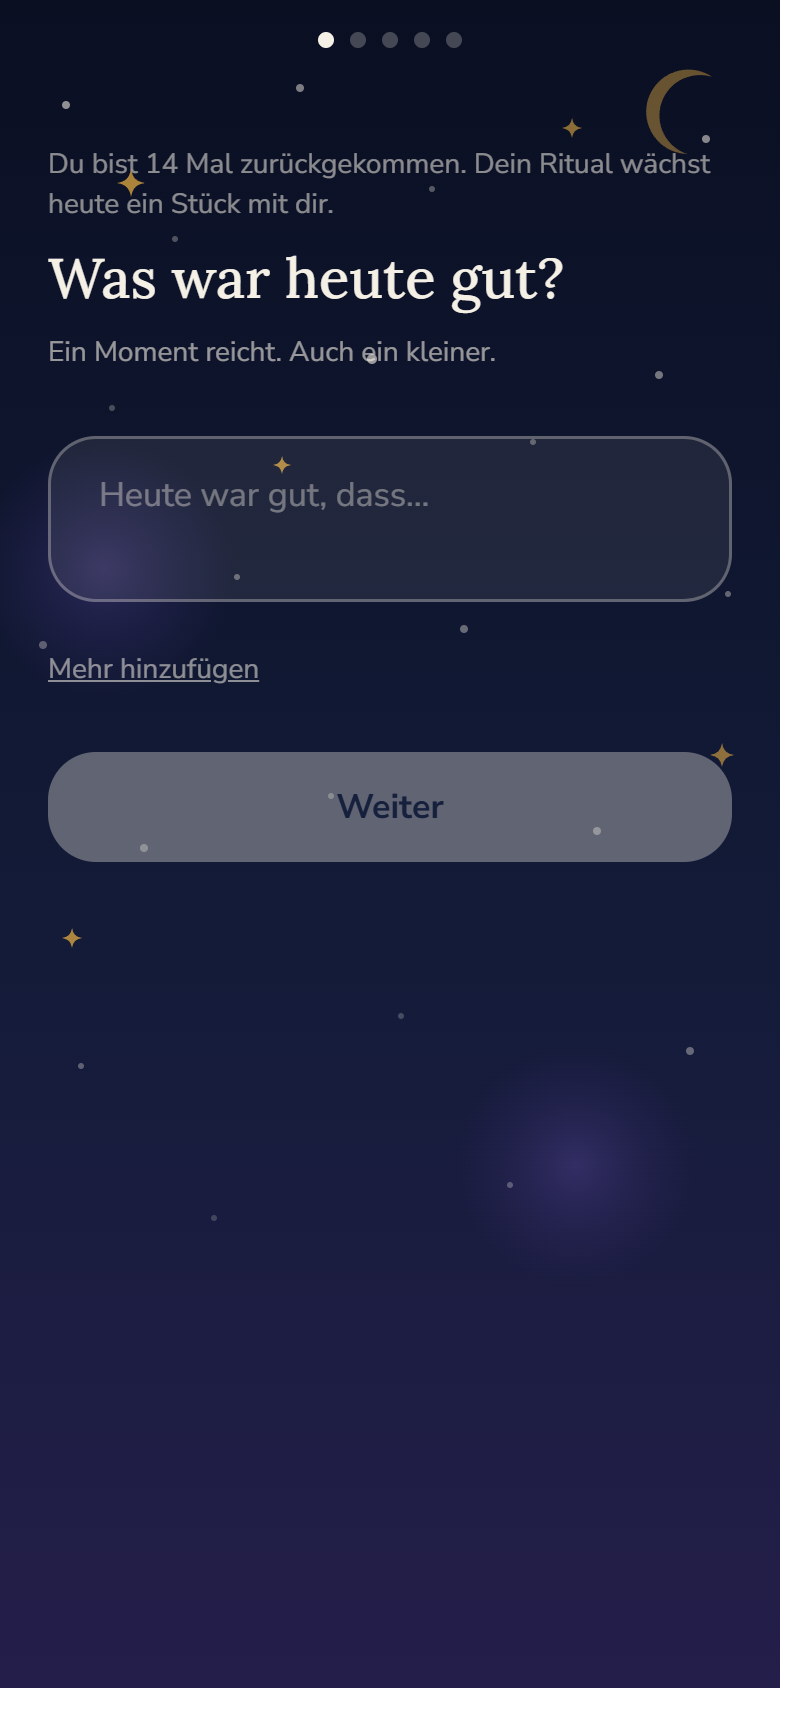
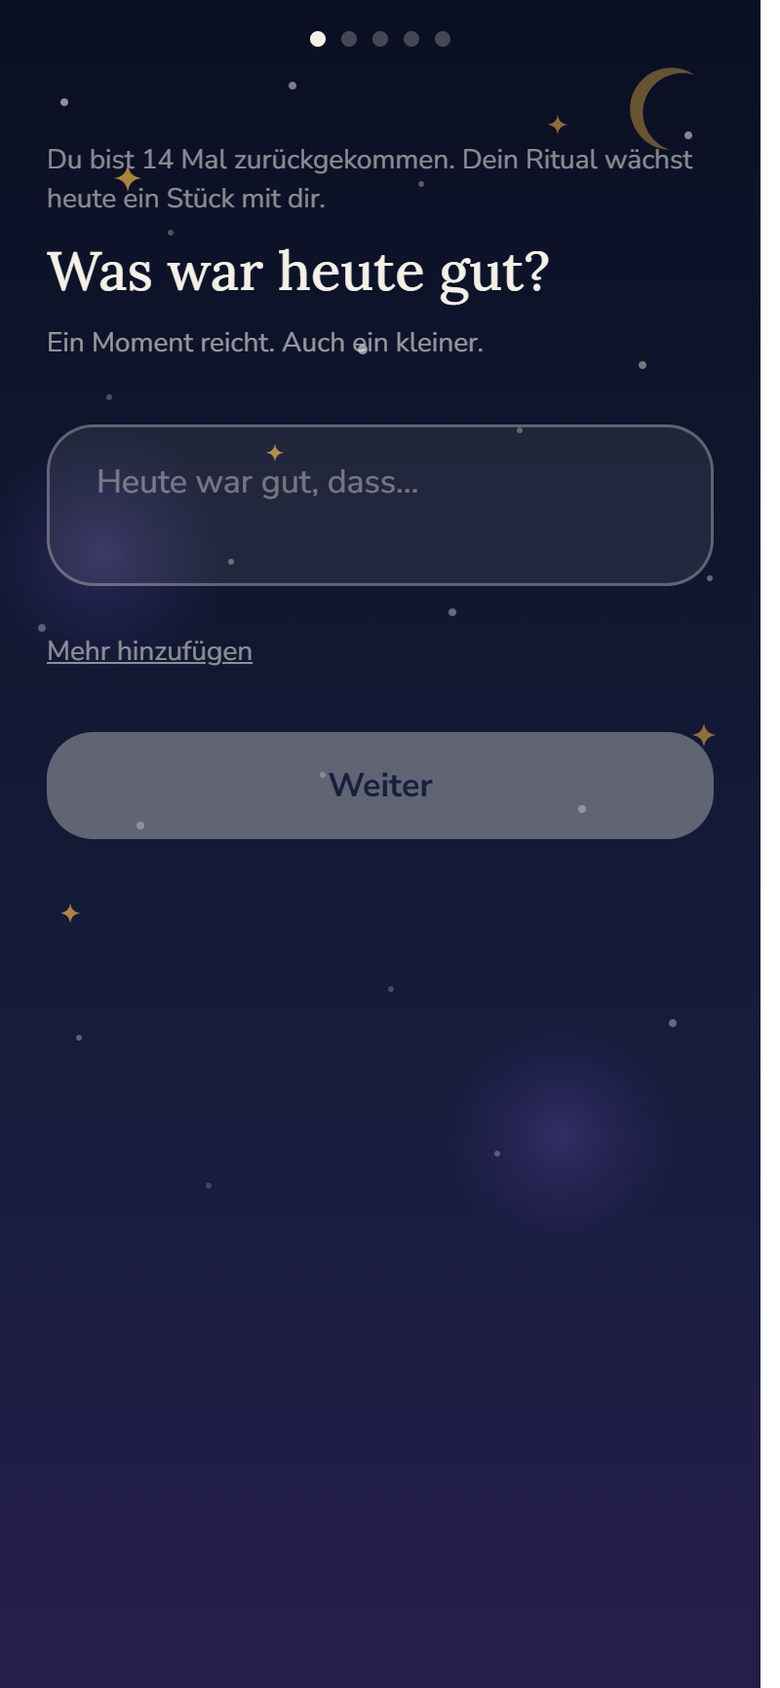
fix: give the vision board a row, mend layout and screenshots
Four things the site had fallen behind on.

The four steps of a day sat in a three column grid, so "Mit
der Zeit" dropped alone into a second row and the arc the
section tells broke in the middle. Now four columns, two by
two below 900px, one below 520px.

Three screenshots carried a white strip along the bottom edge
from the device they were taken on, bright against an
otherwise dark frame. Replaced with the colour above it and
normalised to 780x1688 like the rest.

The vision board only had a small card without a picture; it
now gets a full row with a phone like the other features, and
sharing a sentence as a card is mentioned for the first time.

The Plus list sold the subscription short with four lines
while the app names seven. Impulses, "Dein Wunsch" and the
unlimited vision board were missing.

Changed region(s): [[0.0, 0.955, 0.9846, 1.0]]

diff --git a/index.html b/index.html
@@ -1,4 +1,4 @@
-<!DOCTYPE html>
+<!DOCTYPE html>
 <html lang="de">
 <head>
   <meta charset="UTF-8">
@@ -232,6 +232,24 @@
           </div>
         </div>
 
+        <div class="reihe zeigen">
+          <div class="reihe-medien">
+            <div class="telefon telefon-mittel">
+              <div class="glow" aria-hidden="true"></div>
+              <img src="bilder/screens/neu-visionboard.jpg" width="780" height="1688" alt="Das Vision Board in Enara: eigene Fotos als Collage mit je einem Satz darunter, darüber der eigene Wunschsatz" loading="lazy">
+            </div>
+          </div>
+          <div>
+            <h3>Das Leben, auf das du zugehst.</h3>
+            <p>Dein Vision Board trägt deine eigenen Fotos, nicht fremde Bildwelten. Zu jedem Bild schreibst du einen Satz in der Gegenwart, und darüber steht dein Wunsch, so wie du ihn Enara erzählt hast.</p>
+            <ul class="merkmale">
+              <li>Deine Fotos, verschlüsselt in deinem Konto gesichert</li>
+              <li>Abspielen: ein Bild nach dem anderen, in aller Ruhe</li>
+              <li>Eingetroffen? Ein goldener Haken, und es bleibt als Beweis stehen</li>
+            </ul>
+          </div>
+        </div>
+
       </div>
     </section>
 
@@ -244,9 +262,9 @@
         </div>
         <div class="bento">
           <div class="bento-karte zeigen">
-            <p class="zeichen" aria-hidden="true">▣</p>
-            <h3>Dein Vision Board</h3>
-            <p>Deine eigenen Fotos für das Leben, auf das du zugehst, mit einem Satz zu jedem Bild. Abspielen lässt es sich auch, ein Bild nach dem anderen, in aller Ruhe. Und ist etwas eingetroffen, bekommt es ein Zeichen und bleibt als Beweis stehen.</p>
+            <p class="zeichen" aria-hidden="true">✧</p>
+            <h3>Sätze weitergeben</h3>
+            <p>Ein Satz, der dich trifft, wird mit einem Tippen zu einer Karte im Sternenhimmel, mit dem Satz darauf. Die schickst du einer Freundin, stellst sie in deine Story oder legst sie zu deinen Fotos.</p>
           </div>
           <div class="bento-karte zeigen">
             <p class="zeichen" aria-hidden="true">☽</p>
@@ -340,10 +358,13 @@
             <p class="preis-jahr">oder 59,99 € im Jahr</p>
             <ul>
               <li>Gespräche mit Enara, mit Gedächtnis aus deinem Journal</li>
-              <li>Ihre Grüße am Morgen und am Abend</li>
+              <li>Ihre Grüße am Morgen und am Abend, in eigenen Worten</li>
+              <li>Ihre Impulse zwischendurch, aus dem, was ihr besprochen habt</li>
               <li>Reinsprechen mit Veredelung zum klaren Eintrag</li>
-              <li>Mondritual und alle Vorlagen</li>
-            </ul>
+              <li>Mondritual und alle sechs Schreibvorlagen</li>
+              <li>„Dein Wunsch": Enara baut dir Sätze aus deinen Worten</li>
+              <li>Dein Vision Board ohne Grenze</li>
+              </ul>
           </div>
         </div>
         <p class="preis-zeile">Die Preise siehst du vor jedem Kauf im App Store. Kündigen geht jederzeit in deinen Store Einstellungen, und deine Einträge bleiben auch ohne Abo vollständig bei dir.</p>

diff --git a/stil.css b/stil.css
@@ -386,14 +386,19 @@ a { color: var(--goldhell); }
 
 .schritte {
   display: grid;
-  grid-template-columns: repeat(3, 1fr);
-  gap: 40px;
+  /* Vier Spalten fuer vier Tageszeiten: Morgens, Mittags, Abends, Mit der
+     Zeit. Bei drei Spalten fiel der vierte Schritt allein in eine zweite
+     Reihe und der Bogen, den der Abschnitt erzaehlt, brach mittendrin ab. */
+  grid-template-columns: repeat(4, 1fr);
+  gap: 28px;
   align-items: start;
 }
 
 .schritt { text-align: center; }
 
-.schritt .telefon { margin: 0 auto 26px; }
+/* Nie breiter als seine Spalte: bei vier Spalten wird es unter etwa 1000 px
+   Fensterbreite enger als die festen 230 px, und das Handy stuende ueber. */
+.schritt .telefon { width: min(230px, 100%); margin: 0 auto 26px; }
 
 .schritt-zeit {
   font-size: 0.8rem;
@@ -409,6 +414,12 @@ a { color: var(--goldhell); }
 .schritt p { font-size: 0.99rem; max-width: 34ch; margin: 0 auto; }
 
 @media (max-width: 900px) {
+  /* Zwei mal zwei statt einer langen Spalte: bleibt ausgewogen und niemand
+     steht allein */
+  .schritte { grid-template-columns: repeat(2, 1fr); gap: 40px; }
+}
+
+@media (max-width: 520px) {
   .schritte { grid-template-columns: 1fr; gap: 56px; }
 }
 
@@ -533,8 +544,21 @@ a { color: var(--goldhell); }
 
 .bento-karte p { font-size: 0.93rem; color: var(--leise); }
 
-@media (max-width: 900px) { .bento { grid-template-columns: 1fr 1fr; } }
-@media (max-width: 620px) { .bento { grid-template-columns: 1fr; } }
+/* Bleibt am Ende eine einzelne Karte uebrig, spannt sie die volle Breite.
+   Eine Waise neben zwei Luecken sieht nach Fehler aus, nicht nach Absicht. */
+.bento-karte:last-child:nth-child(3n + 1) { grid-column: 1 / -1; }
+
+@media (max-width: 900px) {
+  .bento { grid-template-columns: 1fr 1fr; }
+  /* bei zwei Spalten faellt die Waise auf ungerade Positionen */
+  .bento-karte:last-child:nth-child(3n + 1) { grid-column: auto; }
+  .bento-karte:last-child:nth-child(2n + 1) { grid-column: 1 / -1; }
+}
+
+@media (max-width: 620px) {
+  .bento { grid-template-columns: 1fr; }
+  .bento-karte:last-child { grid-column: auto; }
+}
 
 /* ---------- Vertrauen ---------- */
 
